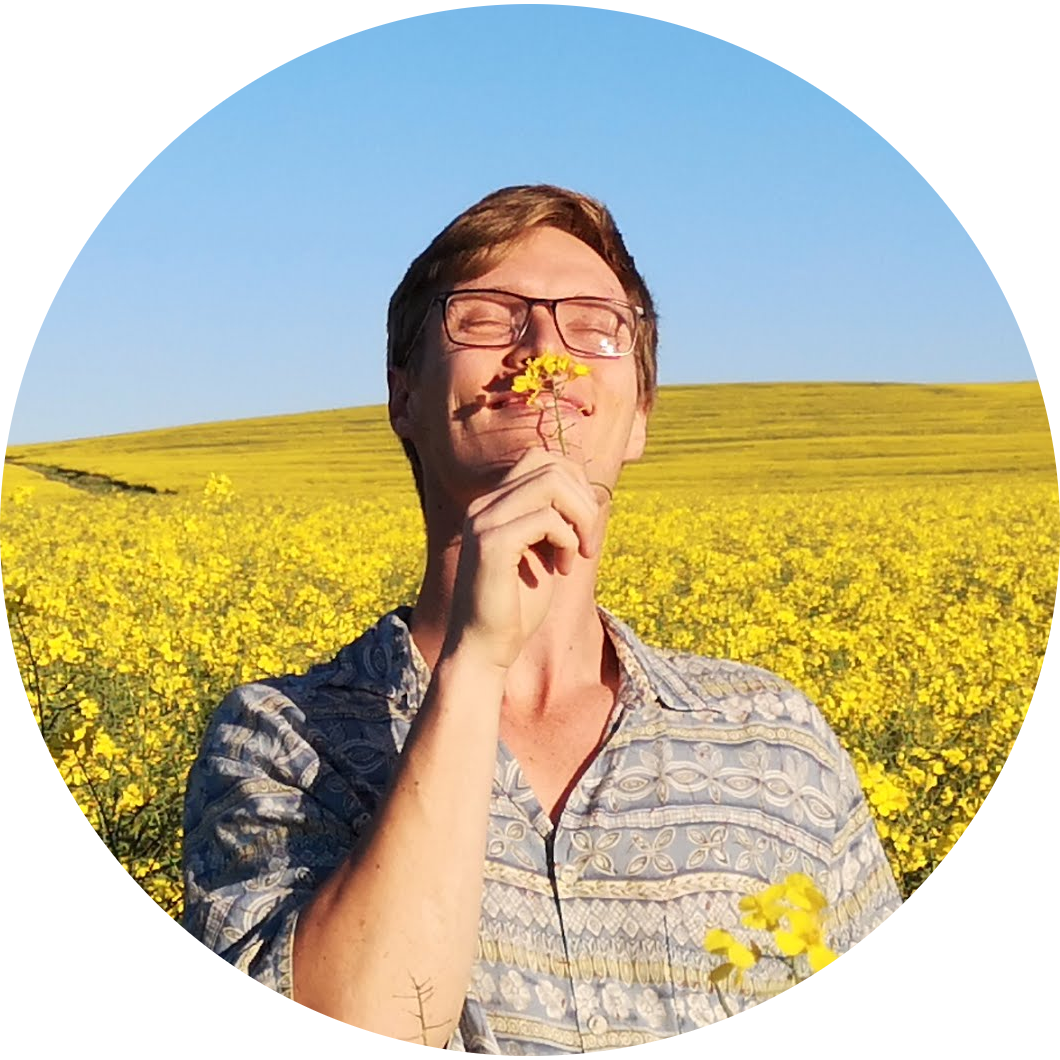
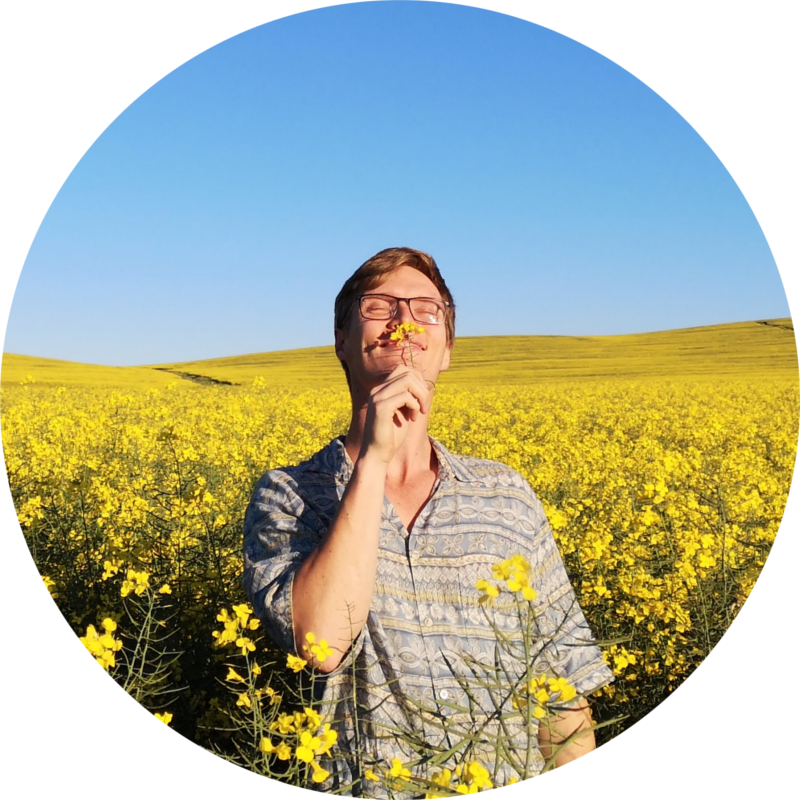
new me image and changed about me styling

diff --git a/src/assets/css/about-me.scss b/src/assets/css/about-me.scss
@@ -13,7 +13,7 @@
   .about-me {
     .about-me-image {
       img {
-        width: 25%;
+        width: 30%;
       }
     }
   }
